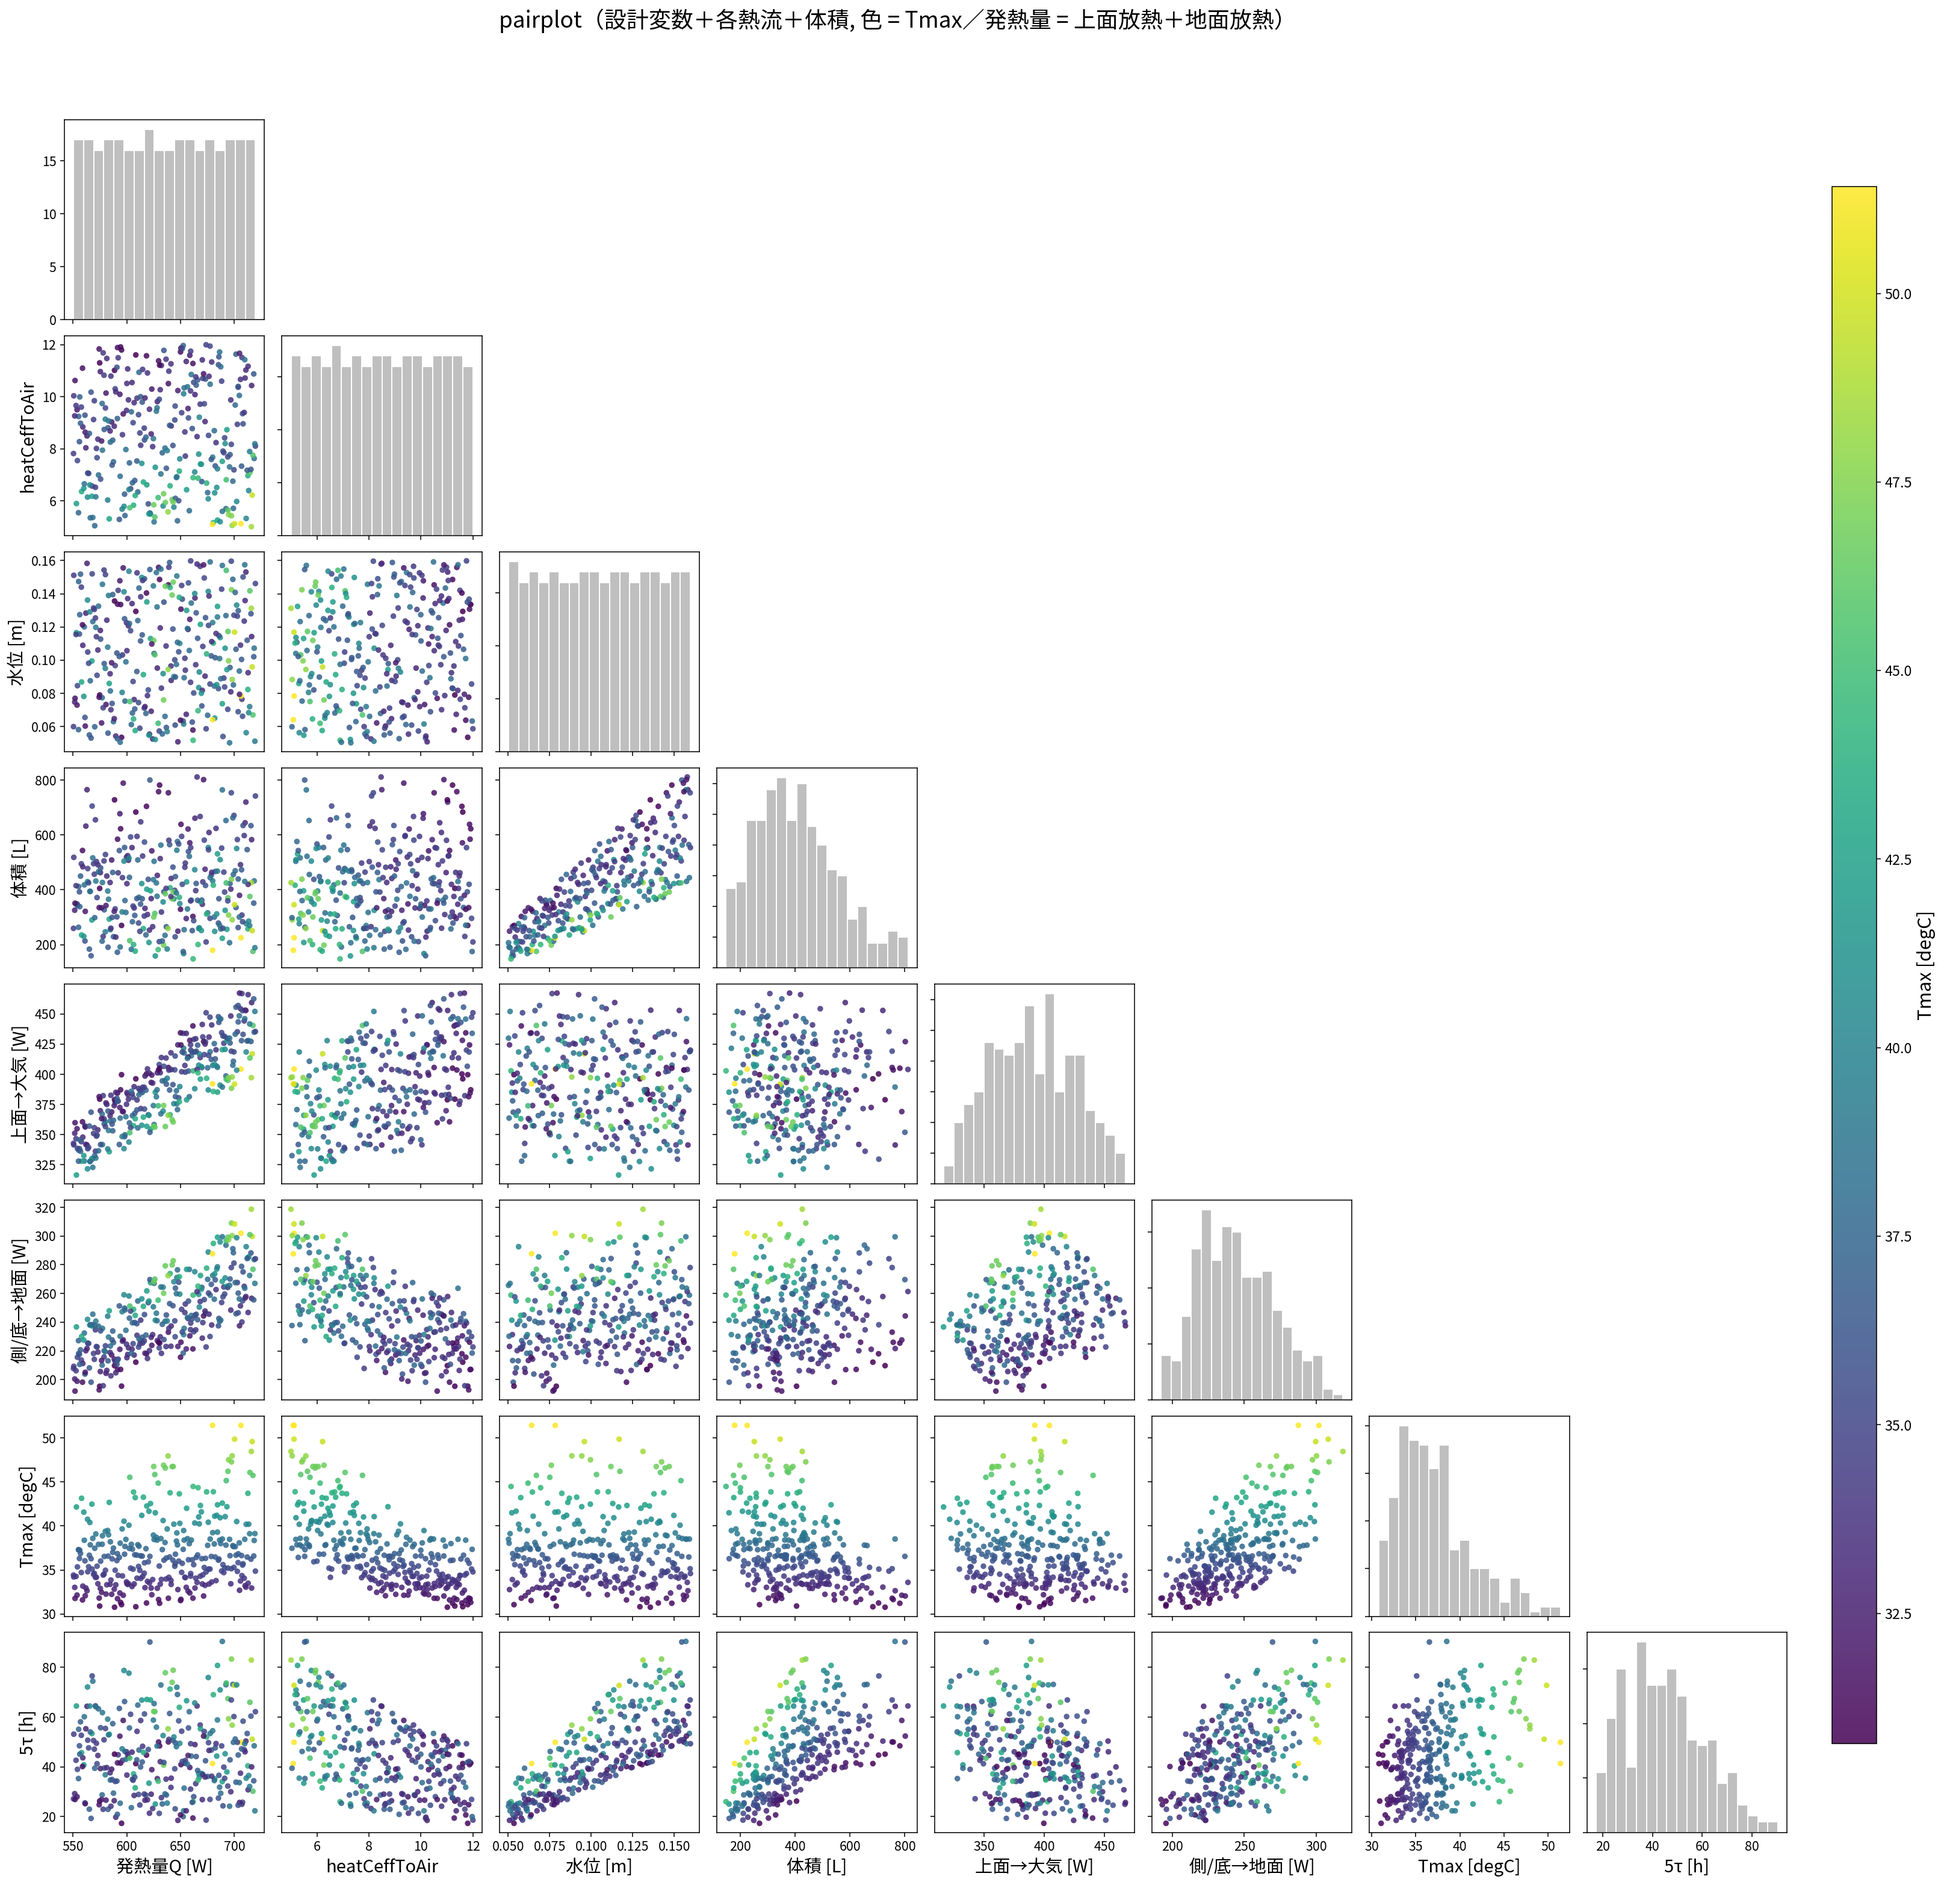
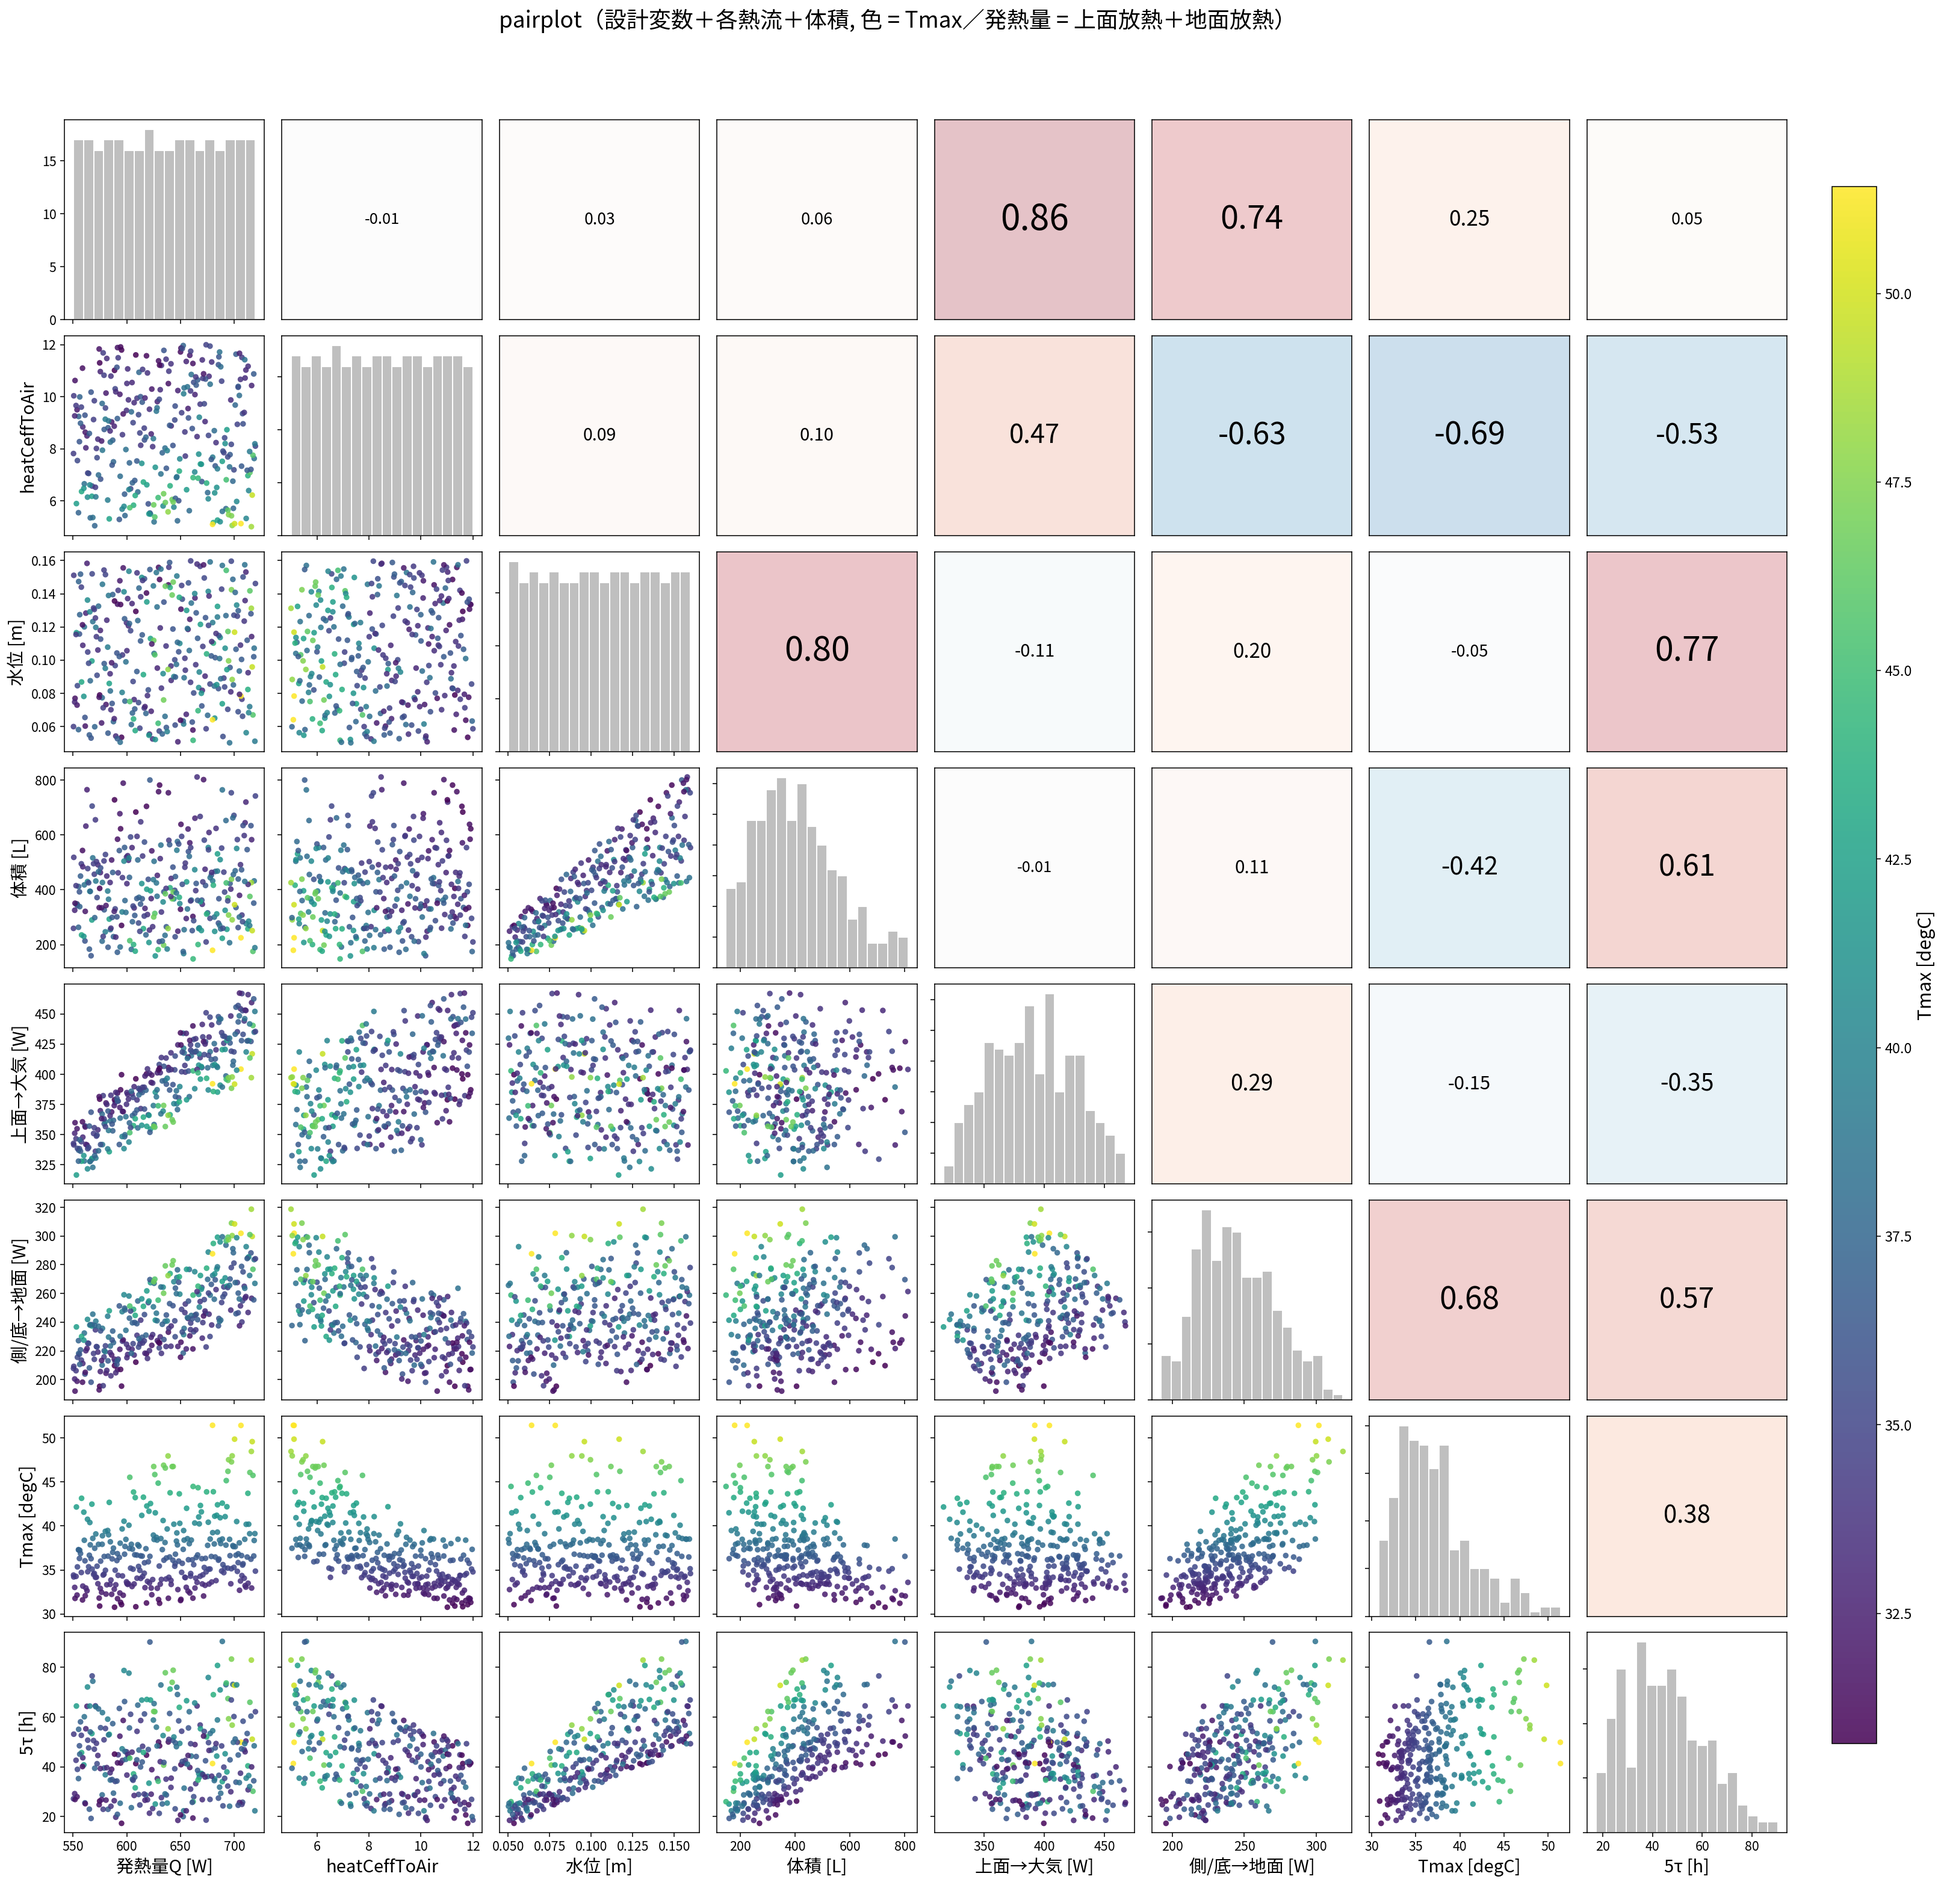
pairplotの上三角に相関係数(Pearson r)を表示
- pairplot関数: 上三角セルにペアの相関係数を表示(赤=正/青=負, 文字サイズ=|r|)。
  pairplot.png / pairplot_Lx.png 両方に反映
- 002レポートに主要相関(Q-放熱0.86等)を注記

Claude-Session: https://claude.ai/code/session_012Bb2Gqoegt25dmMh1N6dBX

Changed region(s): [[0.3715, 0.0619, 0.9288, 0.5265], [0.6811, 0.6194, 0.9288, 0.8672]]

diff --git a/docs/study_pareto_demo.py b/docs/study_pareto_demo.py
@@ -209,7 +209,15 @@ def pairplot(data, labels, cvals, clabel, path, title):
             ax = axes[i, j]
             ax.set_box_aspect(1)
             if j > i:
-                ax.axis("off"); continue
+                # 上三角: 相関係数 r を表示（|r|で文字サイズ, 符号で背景色 赤=正/青=負）
+                r = float(np.corrcoef(data[:, j], data[:, i])[0, 1])
+                ax.set_xticks([]); ax.set_yticks([])
+                col = matplotlib.cm.RdBu_r((r + 1) / 2)
+                ax.set_facecolor((col[0], col[1], col[2], 0.25))
+                ax.text(0.5, 0.5, "%.2f" % r, ha="center", va="center",
+                        transform=ax.transAxes, fontweight="bold",
+                        fontsize=13 + abs(r) * 20)
+                continue
             if i == j:
                 ax.hist(data[:, i], bins=18, color="0.75", edgecolor="w")
             else:

diff --git a/docs/002_paramstudy_pareto.md b/docs/002_paramstudy_pareto.md
@@ -92,6 +92,10 @@ python param_study.py pareto --csv results.csv
 
 ![リッチ pairplot](img/002/pairplot.png)
 
+**上三角のマスに各ペアの相関係数 r（Pearson）**を表示（赤＝正・青＝負、文字サイズ＝|r|）。
+主な相関：Q↔上面放熱 0.86、Q↔地面放熱 0.74、水位↔体積 0.80、水位↔5τ 0.77、
+heatCeffToAir↔Tmax −0.69、側/底放熱↔Tmax 0.68。
+
 読み取り例：
 - **水位 ↔ 体積**：ほぼ比例（体積 = 断面積×水位）。
 - **Q ↔ 上面→大気 / 側底→地面**：ともに正（入熱が増えると放熱も増えて釣り合う）。
